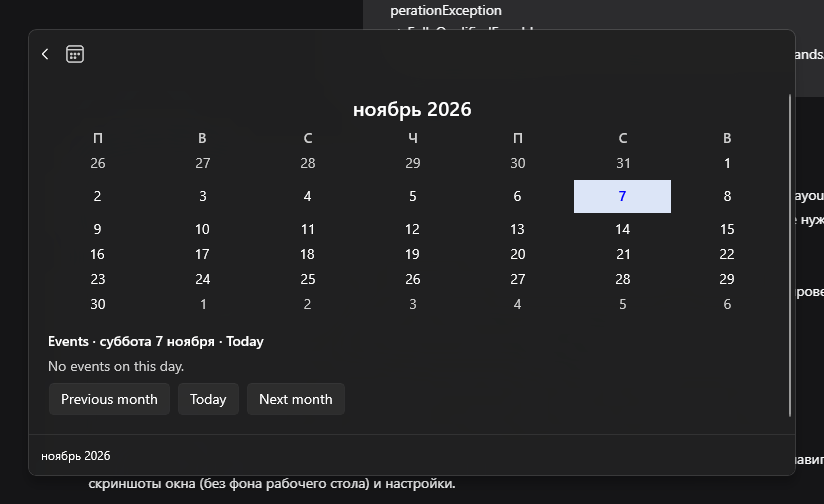
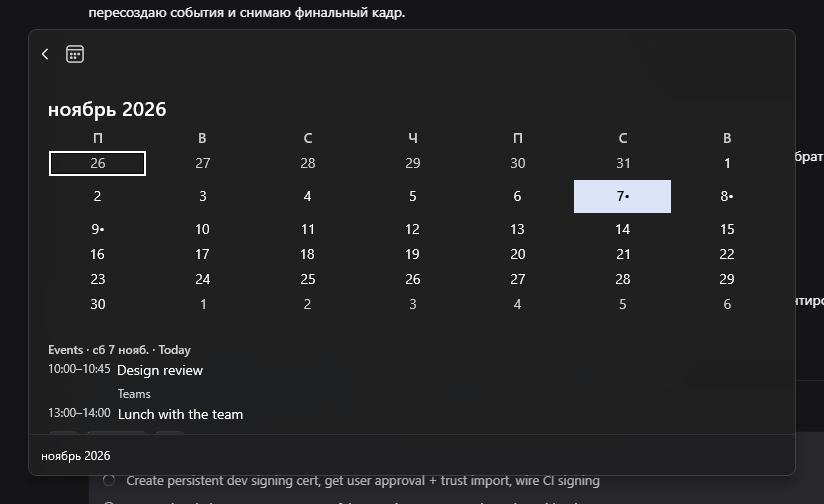
docs: show the event-filled calendar flyout in the README

diff --git a/README.md b/README.md
@@ -62,12 +62,16 @@ open-source) code-signing certificate is in place; the staged WinGet manifests i
 
 | Command Palette | Calendar flyout |
 |---|---|
-| ![Itsycal for Windows in Command Palette search](docs/screenshots/palette-search.png) | ![Month calendar with today selected and events for the selected day](docs/screenshots/calendar-flyout.png) |
+| ![Itsycal for Windows in Command Palette search](docs/screenshots/palette-search.png) | ![Month calendar with today selected, event dots and the selected day's events](docs/screenshots/calendar-flyout.png) |
 
-Captured from the installed 1.0.0 build. The extension follows the Windows display
-language, the first day of week and the week-number setting: the screenshots above show a
-Russian locale, weeks starting on Monday, and the empty state because no calendar account is
-configured on that machine.
+Captured from the installed 1.0.0 development build. The extension follows the Windows
+display language, the first day of week and the week-number setting: the screenshots above
+show a Russian locale and weeks starting on Monday. The flyout marks days that have events
+with a dot, shows today with the accent colour, and lists the selected day's events with
+their time, title, and location. The visible events come from a temporary "Itsycal demo"
+calendar that the DEBUG build can create with the `Itsycal: add demo events` command and
+remove again with `Itsycal: remove demo events` — release builds ship neither the commands
+nor the demo calendar.
 
 ## Build from source
 
